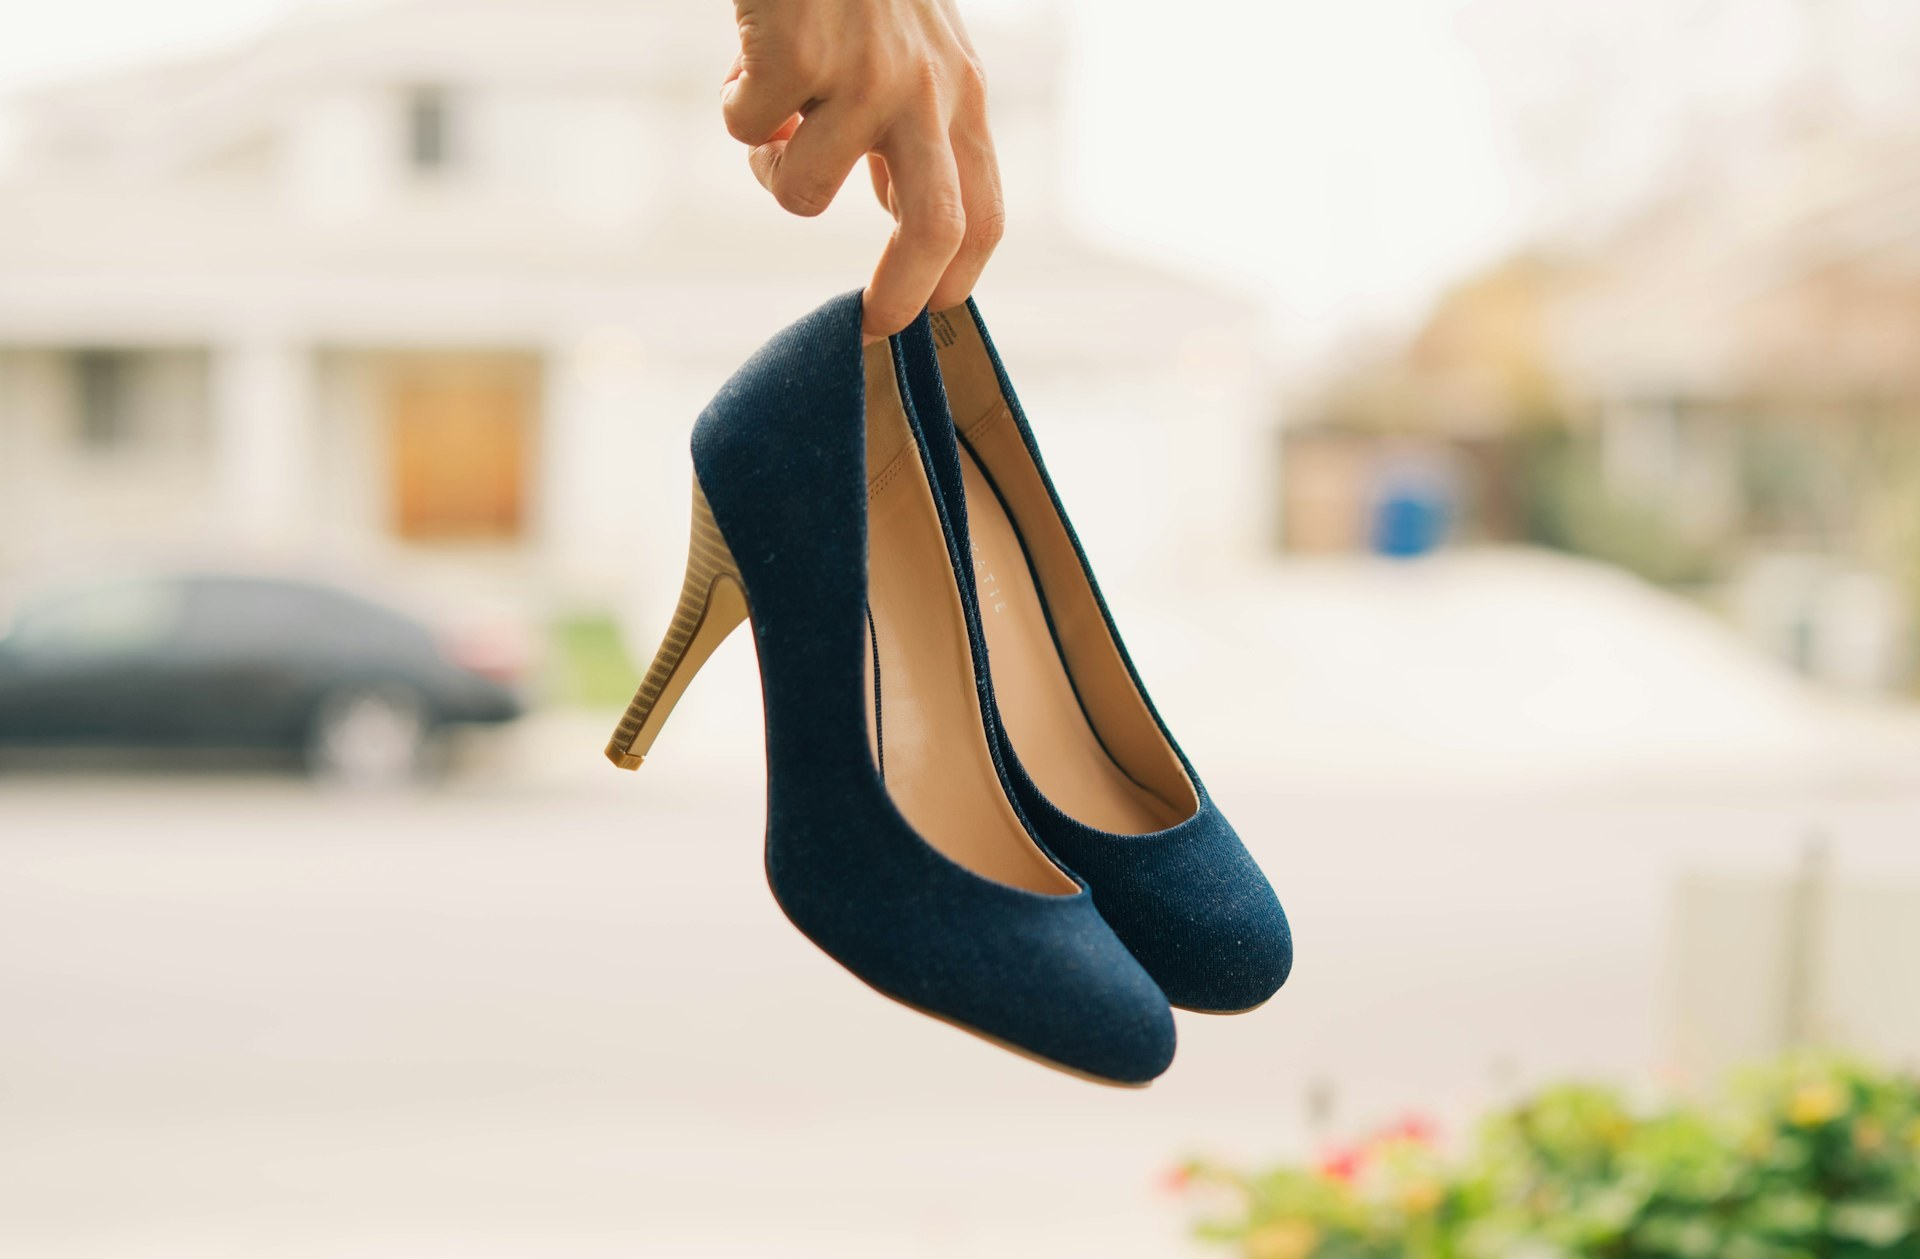
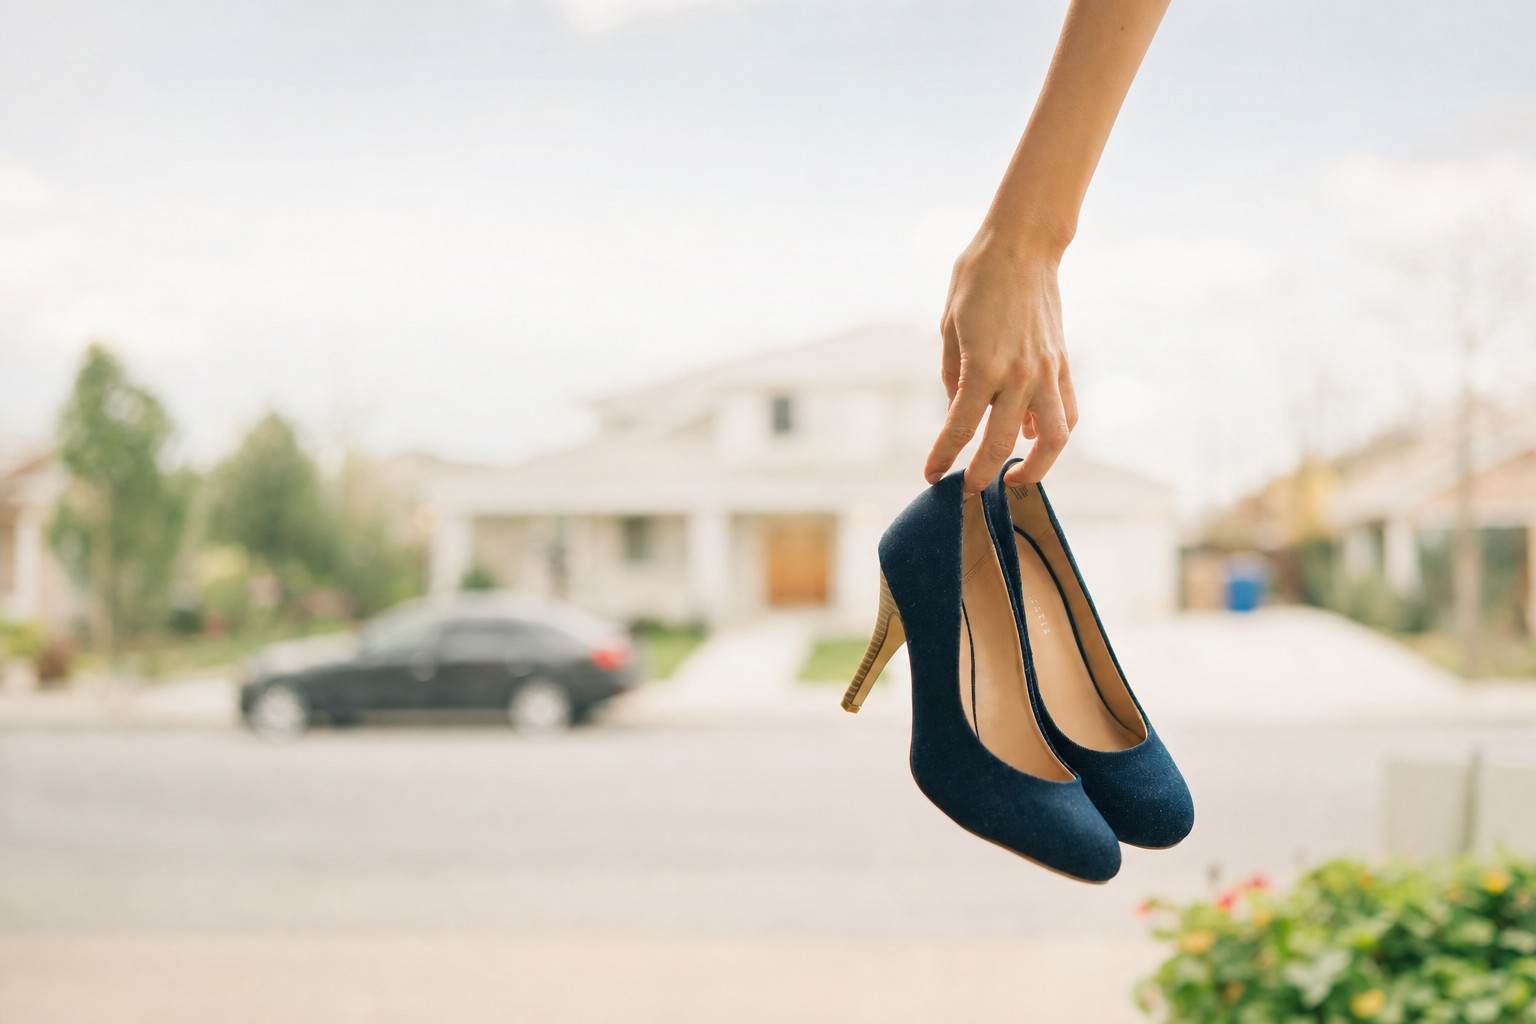
Outpaint heroes with gpt-image-2 and retune focals
Extend each banner plate left/right (and vertical padding) via OpenAI
Images edits, then update FocalBanner subject boxes for website-banners
cover targets on the wider 1536x1024 canvases.

diff --git a/src/lib/site.ts b/src/lib/site.ts
@@ -258,6 +258,7 @@ export const brandLinks = [
 
 /**
  * Shared hero image metadata with measured landmarks for FocalBanner.
+ * Plates outpainted with gpt-image-2 (1536x1024) for side + vertical padding.
  * focalX/focalY are points IN THE FILE (not screen targets).
  * Interiors use fillFrame + subject so short banners cover ~70-90% at 1280.
  */
@@ -265,62 +266,62 @@ export const heroes = {
   home: {
     src: "/images/hero-home.jpg",
     alt: "Polished brown leather monk-strap dress shoes on a wooden surface",
-    width: 1920,
-    height: 1282,
+    width: 1536,
+    height: 1024,
     // Landmark: nearer shoe buckle / strap clasp
-    focalX: 0.58,
-    focalY: 0.52,
-    // Home plane is short vs this landscape file - fillFrame avoids a ~40% strip
+    focalX: 0.62,
+    focalY: 0.55,
     fillFrame: true,
     bleed: true,
-    subject: { l: 0.22, t: 0.32, r: 0.9, b: 0.78 },
+    // ~0.74 subject height → ~78% cover at 1280 while keeping outpaint padding
+    subject: { l: 0.15, t: 0.14, r: 0.95, b: 0.88 },
   },
   services: {
     src: "/images/hero-services.jpg",
     alt: "Black leather dress shoes with a high polish on a wood floor",
-    width: 1920,
-    height: 1272,
-    // Landmark: center of the toe box / lace knot of the nearer shoe
-    focalX: 0.5,
-    focalY: 0.5,
+    width: 1536,
+    height: 1024,
+    // Landmark: center of the toe box of the nearer shoe
+    focalX: 0.62,
+    focalY: 0.52,
     fillFrame: true,
     bleed: true,
-    subject: { l: 0.2, t: 0.28, r: 0.9, b: 0.72 },
+    subject: { l: 0.28, t: 0.26, r: 0.9, b: 0.75 },
   },
   products: {
     src: "/images/hero-products.jpg",
     alt: "Brown leather boots on a light wood floor",
-    width: 1920,
-    height: 1280,
+    width: 1536,
+    height: 1024,
     // Landmark: vamp / lace of the front boot
-    focalX: 0.38,
-    focalY: 0.55,
+    focalX: 0.58,
+    focalY: 0.5,
     fillFrame: true,
     bleed: true,
-    subject: { l: 0.05, t: 0.35, r: 0.7, b: 0.8 },
+    subject: { l: 0.25, t: 0.26, r: 0.88, b: 0.75 },
   },
   policy: {
     src: "/images/hero-watch.jpg",
     alt: "Minimal wristwatch with a leather strap held in hand",
-    width: 1920,
-    height: 1395,
+    width: 1536,
+    height: 1024,
     // Landmark: center of the watch dial
-    focalX: 0.48,
-    focalY: 0.42,
+    focalX: 0.68,
+    focalY: 0.38,
     fillFrame: true,
     bleed: true,
-    subject: { l: 0.28, t: 0.2, r: 0.78, b: 0.58 },
+    subject: { l: 0.4, t: 0.12, r: 0.92, b: 0.54 },
   },
   contact: {
     src: "/images/hero-contact.jpg",
     alt: "Navy high-heeled pumps held outdoors",
-    width: 1920,
-    height: 1259,
+    width: 1536,
+    height: 1024,
     // Landmark: mid vamp of the nearer pump
-    focalX: 0.5,
+    focalX: 0.62,
     focalY: 0.48,
     fillFrame: true,
     bleed: true,
-    subject: { l: 0.22, t: 0.16, r: 0.82, b: 0.62 },
+    subject: { l: 0.32, t: 0.14, r: 0.9, b: 0.6 },
   },
 } as const;
